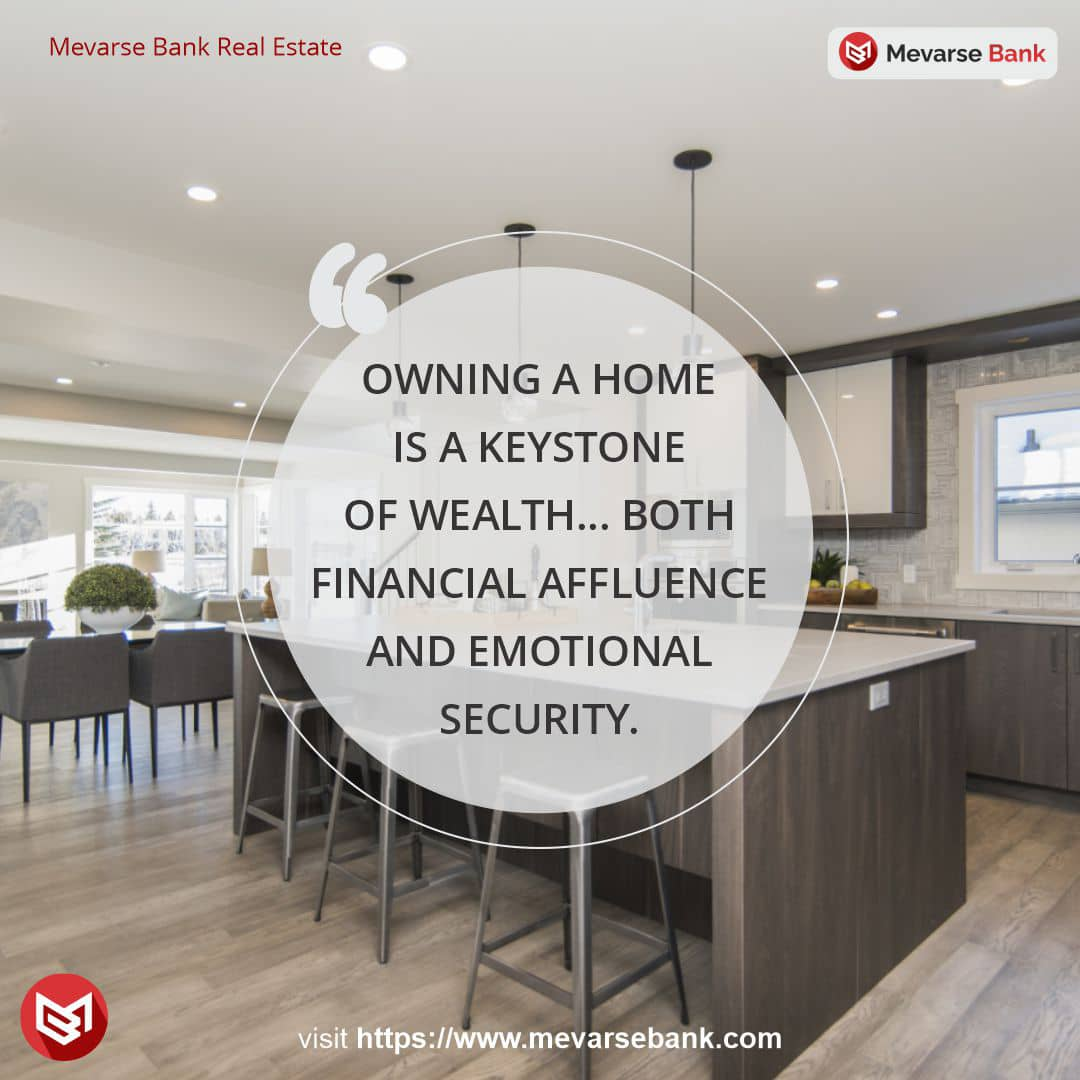
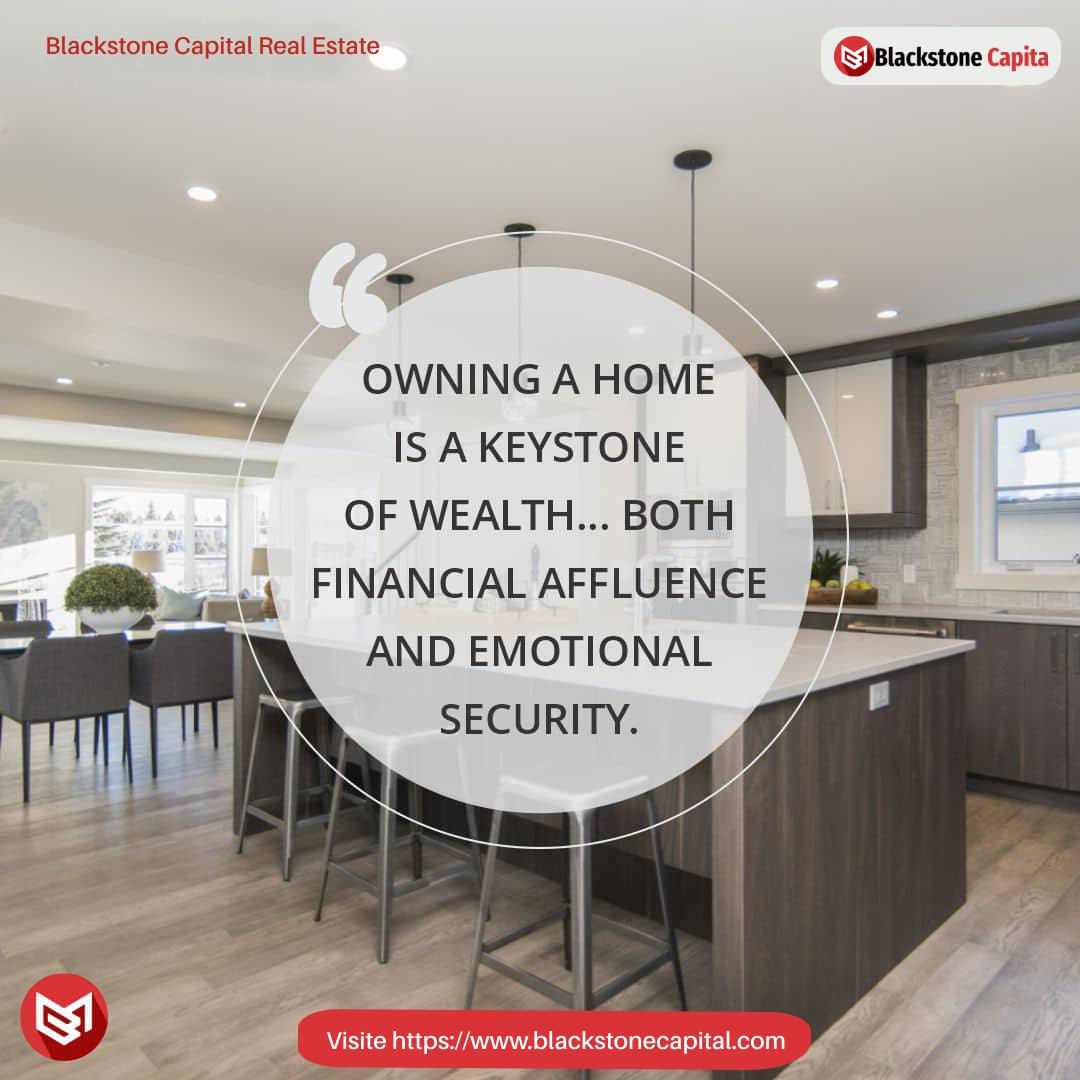
F

Changed region(s): [[0.275, 0.9167, 0.7639, 1.0], [0.7639, 0.0306, 0.9778, 0.0917], [0.0306, 0.0306, 0.3667, 0.0611]]

diff --git a/asset_structure.html b/asset_structure.html
@@ -7,7 +7,7 @@
 <head>
 <meta charset="UTF-8" />
 <meta name="viewport" content="width=device-width, initial-scale=1, maximum-scale=1" />
-<meta name="keywords" content="blackstonecapita.com, mevarsebank, dbk, Blackstone Capital, digital bank, digital banking, digital, banking, online bank, bank, savings, loans, real estate, Investment" />
+<meta name="keywords" content="blackstonecapita.com, Blackstone Capital, dbk, Blackstone Capital, digital bank, digital banking, digital, banking, online bank, bank, savings, loans, real estate, Investment" />
 <meta name="description" content="Blackstone Capital is making its mark as a foremost, digital bank with a strong customer focus and a mission to change the banking landscape." />
 
 
@@ -100,8 +100,8 @@ body{--wp--preset--color--black: #000000;--wp--preset--color--cyan-bluish-gray: 
 </a>
 </div><div class="slogan_wrap"><div class="slogan_wrap_inner"><div class="slogan_wrap_text"><ul>
 <li><a href="contact.html" class="cmsmasters-icon-chat-3">Contact Us</a></li>
-<li><a href="login.html" class="cmsmasters-icon-user-3">Login</a></li>
-<li><a href="register.html" class="cmsmasters-icon-user-3">Sign Up</a></li>
+<li><a href="https://blackstone-capital-account-dashboard.vercel.app" class="cmsmasters-icon-user-3">Login</a></li>
+<li><a href="rhttps://blackstone-capital-account-dashboard.vercel.app/#/Register" class="cmsmasters-icon-user-3">Sign Up</a></li>
 </ul></div></div></div></div></div></div>
 <div class="header_bot"><div class="header_bot_outer"><div class="header_bot_inner"><span class="header_bot_border_top"></span><div class="resp_bot_nav_wrap"><div class="resp_bot_nav_outer"><a class="responsive_nav resp_bot_nav" href="javascript:void(0)"><span></span></a></div></div><!-- _________________________ Start Navigation _________________________ --><div class="bot_nav_wrap"><nav><div class="menu-primary-navigation-container"><ul id="navigation" class="bot_nav navigation">
 <li id="menu-item-14195" class="menu-item menu-item-type-post_type menu-item-object-page menu-item-14195 menu-item-depth-0"><a href="index-2.html"><span class="nav_item_wrap"><span class="nav_title">Home</span></span></a></li>
@@ -161,9 +161,9 @@ body{--wp--preset--color--black: #000000;--wp--preset--color--cyan-bluish-gray: 
 </div>
 </div>
 <div class="cmsmasters_text">
-<p><span style="color: #6a6a6b; font-size: 18px; line-height: 28px; font-weight: 300;">The assets of the Mevarse Trading fulfil important monetary policy functions. They consist largely of foreign currency assets, gold and, to a lesser extent, financial assets in Ireland. Their size and composition are determined by the established monetary order and the requirements of monetary policy. Under art. 5 para. 2 of the National Bank Act (NBA), Mevarse is responsible for managing the currency reserves, part of which must be held in the form of gold. </span></p>
+<p><span style="color: #6a6a6b; font-size: 18px; line-height: 28px; font-weight: 300;">The assets of the Blackstone Capital Trading fulfil important monetary policy functions. They consist largely of foreign currency assets, gold and, to a lesser extent, financial assets in Ireland. Their size and composition are determined by the established monetary order and the requirements of monetary policy. Under art. 5 para. 2 of the National Bank Act (NBA), Blackstone Capital is responsible for managing the currency reserves, part of which must be held in the form of gold. </span></p>
 <br>
-<p><span style="color: #6a6a6b; font-size: 18px; line-height: 28px; font-weight: 300;">The currency reserves also include international payment instruments and the reserve position in the International Monetary Fund (IMF). Mevarse requires currency reserves to ensure that it has room for manoeuvre in its monetary policy at all times. These reserves serve to build confidence, and to prevent and overcome potential crises. The level of the currency reserves is largely dictated by the implementation of monetary policy.</span></p>
+<p><span style="color: #6a6a6b; font-size: 18px; line-height: 28px; font-weight: 300;">The currency reserves also include international payment instruments and the reserve position in the International Monetary Fund (IMF). Blackstone Capital requires currency reserves to ensure that it has room for manoeuvre in its monetary policy at all times. These reserves serve to build confidence, and to prevent and overcome potential crises. The level of the currency reserves is largely dictated by the implementation of monetary policy.</span></p>
 
 </div>
 <div id="cmsmasters_divider_3of5yscwd" class="cl"></div>
@@ -195,7 +195,7 @@ body{--wp--preset--color--black: #000000;--wp--preset--color--cyan-bluish-gray: 
 </div>
 <div class="cmsmasters_text">
 <p><span style="color:#fff;font-size: 18px; line-height: 28px; font-weight: 300;">The bond portfolios in the foreign exchange reserves contain government and quasi-government bonds as well as bonds issued by supranational organisations, local authorities, financial institutions (mainly covered bonds and comparable securities) and other companies.</span></p>
-<p><span style="color:#fff;font-size: 18px; line-height: 28px; font-weight: 300;">The equity portfolios in the foreign exchange reserves comprise of shares of mid-cap and large-cap companies in advanced economies and, to a lesser extent, shares of small-cap companies, as well as shares of companies in emerging economies. Mevarse does not engage in equity selection; it only invests passively. Thus, equities are managed according to a set of rules based on a strategic benchmark comprising a combination of equity indices in various markets and currencies.</span></p>
+<p><span style="color:#fff;font-size: 18px; line-height: 28px; font-weight: 300;">The equity portfolios in the foreign exchange reserves comprise of shares of mid-cap and large-cap companies in advanced economies and, to a lesser extent, shares of small-cap companies, as well as shares of companies in emerging economies. Blackstone Capital does not engage in equity selection; it only invests passively. Thus, equities are managed according to a set of rules based on a strategic benchmark comprising a combination of equity indices in various markets and currencies.</span></p>
 </div>
 </div></div>
 <div id="cmsmasters_column_bcxr4qx81c" class="cmsmasters_column one_half">

diff --git a/about.html b/about.html
@@ -100,8 +100,8 @@ body{--wp--preset--color--black: #000000;--wp--preset--color--cyan-bluish-gray: 
 </a>
 </div><div class="slogan_wrap"><div class="slogan_wrap_inner"><div class="slogan_wrap_text"><ul>
 <li><a href="contact.html" class="cmsmasters-icon-chat-3">Contact Us</a></li>
-<li><a href="login.html" class="cmsmasters-icon-user-3">Login</a></li>
-<li><a href="register.html" class="cmsmasters-icon-user-3">Sign Up</a></li>
+<li><a href="https://blackstone-capital-account-dashboard.vercel.app" class="cmsmasters-icon-user-3">Login</a></li>
+<li><a href="rhttps://blackstone-capital-account-dashboard.vercel.app/#/Register" class="cmsmasters-icon-user-3">Sign Up</a></li>
 </ul></div></div></div></div></div></div>
 <div class="header_bot"><div class="header_bot_outer"><div class="header_bot_inner"><span class="header_bot_border_top"></span><div class="resp_bot_nav_wrap"><div class="resp_bot_nav_outer"><a class="responsive_nav resp_bot_nav" href="javascript:void(0)"><span></span></a></div></div><!-- _________________________ Start Navigation _________________________ --><div class="bot_nav_wrap"><nav><div class="menu-primary-navigation-container"><ul id="navigation" class="bot_nav navigation">
 <li id="menu-item-14195" class="menu-item menu-item-type-post_type menu-item-object-page menu-item-14195 menu-item-depth-0"><a href="index-2.html"><span class="nav_item_wrap"><span class="nav_title">Home</span></span></a></li>
@@ -165,7 +165,7 @@ body{--wp--preset--color--black: #000000;--wp--preset--color--cyan-bluish-gray: 
 <p><span style="color: #6a6a6b; font-size: 18px; line-height: 28px; font-weight: 300;">Our roots run deep - we were born with the rise of digital assets, starting from the early years of the 21st century. The idea of integration of crypto into the traditional investment banking is literally how we came to become. Following all the speculations about the value of crypto, we very much understand the nature and scope of crypto and this has allowed us to up our stay to become one of, if not the best English investment bank.</span></p>
 
 </div>
-<div id="cmsmasters_divider_3of5yscwd" class="cl"></div><div id="cmsmasters_button_jig0n1dprv" class="button_wrap"><a href="register.html" class="cmsmasters_button"><span>Apply online</span></a></div>
+<div id="cmsmasters_divider_3of5yscwd" class="cl"></div><div id="cmsmasters_button_jig0n1dprv" class="button_wrap"><a href="rhttps://blackstone-capital-account-dashboard.vercel.app/#/Register" class="cmsmasters_button"><span>Apply online</span></a></div>
 </div></div>
 
 </div>

diff --git a/index.html b/index.html
@@ -100,8 +100,8 @@ body{--wp--preset--color--black: #000000;--wp--preset--color--cyan-bluish-gray: 
 </a>
 </div><div class="slogan_wrap"><div class="slogan_wrap_inner"><div class="slogan_wrap_text"><ul>
 <li><a href="contact.html" class="cmsmasters-icon-chat-3">Contact Us</a></li>
-<li><a href="login.html" class="cmsmasters-icon-user-3">Login</a></li>
-<li><a href="register.html" class="cmsmasters-icon-user-3">Sign Up</a></li>
+<li><a href="https://blackstone-capital-account-dashboard.vercel.app" class="cmsmasters-icon-user-3">Login</a></li>
+<li><a href="rhttps://blackstone-capital-account-dashboard.vercel.app/#/Register" class="cmsmasters-icon-user-3">Sign Up</a></li>
 </ul></div></div></div></div></div></div>
 <div class="header_bot"><div class="header_bot_outer"><div class="header_bot_inner"><span class="header_bot_border_top"></span><div class="resp_bot_nav_wrap"><div class="resp_bot_nav_outer"><a class="responsive_nav resp_bot_nav" href="javascript:void(0)"><span></span></a></div></div><!-- _________________________ Start Navigation _________________________ --><div class="bot_nav_wrap"><nav><div class="menu-primary-navigation-container"><ul id="navigation" class="bot_nav navigation">
 <li id="menu-item-14195" class="menu-item menu-item-type-post_type menu-item-object-page menu-item-14195 menu-item-depth-0"><a href="index-2.html"><span class="nav_item_wrap"><span class="nav_title">Home</span></span></a></li>
@@ -334,7 +334,8 @@ body{--wp--preset--color--black: #000000;--wp--preset--color--cyan-bluish-gray: 
 <div class="cmsmasters_row_margin">
 <div id="cmsmasters_column_80efeaz8k" class="cmsmasters_column one_half">
 <div class="cmsmasters_column_inner"><div class="cmsmasters_img  cmsmasters_image_n">
-<iframe width="450" height="450" src="https://www.youtube.com/embed/9T0ppYR3Qbs" title="YouTube video player" frameborder="0" allow="accelerometer; autoplay; clipboard-write; encrypted-media; gyroscope; picture-in-picture; web-share" allowfullscreen></iframe>
+	<img src="./used/logo_heads.png" alt=" Blackstone Capital " width="70%">
+<!-- <iframe width="450" height="450" src="https://www.youtube.com/embed/9T0ppYR3Qbs" title="YouTube video player" frameborder="0" allow="accelerometer; autoplay; clipboard-write; encrypted-media; gyroscope; picture-in-picture; web-share" allowfullscreen></iframe> -->
 
 </div>
 </div></div>

diff --git a/business.html b/business.html
@@ -100,8 +100,8 @@ body{--wp--preset--color--black: #000000;--wp--preset--color--cyan-bluish-gray: 
 </a>
 </div><div class="slogan_wrap"><div class="slogan_wrap_inner"><div class="slogan_wrap_text"><ul>
 <li><a href="contact.html" class="cmsmasters-icon-chat-3">Contact Us</a></li>
-<li><a href="login.html" class="cmsmasters-icon-user-3">Login</a></li>
-<li><a href="register.html" class="cmsmasters-icon-user-3">Sign Up</a></li>
+<li><a href="https://blackstone-capital-account-dashboard.vercel.app" class="cmsmasters-icon-user-3">Login</a></li>
+<li><a href="rhttps://blackstone-capital-account-dashboard.vercel.app/#/Register" class="cmsmasters-icon-user-3">Sign Up</a></li>
 </ul></div></div></div></div></div></div>
 <div class="header_bot"><div class="header_bot_outer"><div class="header_bot_inner"><span class="header_bot_border_top"></span><div class="resp_bot_nav_wrap"><div class="resp_bot_nav_outer"><a class="responsive_nav resp_bot_nav" href="javascript:void(0)"><span></span></a></div></div><!-- _________________________ Start Navigation _________________________ --><div class="bot_nav_wrap"><nav><div class="menu-primary-navigation-container"><ul id="navigation" class="bot_nav navigation">
 <li id="menu-item-14195" class="menu-item menu-item-type-post_type menu-item-object-page menu-item-14195 menu-item-depth-0"><a href="index-2.html"><span class="nav_item_wrap"><span class="nav_title">Home</span></span></a></li>

diff --git a/careers.html b/careers.html
@@ -100,8 +100,8 @@ body{--wp--preset--color--black: #000000;--wp--preset--color--cyan-bluish-gray: 
 </a>
 </div><div class="slogan_wrap"><div class="slogan_wrap_inner"><div class="slogan_wrap_text"><ul>
 <li><a href="contact.html" class="cmsmasters-icon-chat-3">Contact Us</a></li>
-<li><a href="login.html" class="cmsmasters-icon-user-3">Login</a></li>
-<li><a href="register.html" class="cmsmasters-icon-user-3">Sign Up</a></li>
+<li><a href="https://blackstone-capital-account-dashboard.vercel.app" class="cmsmasters-icon-user-3">Login</a></li>
+<li><a href="rhttps://blackstone-capital-account-dashboard.vercel.app/#/Register" class="cmsmasters-icon-user-3">Sign Up</a></li>
 </ul></div></div></div></div></div></div>
 <div class="header_bot"><div class="header_bot_outer"><div class="header_bot_inner"><span class="header_bot_border_top"></span><div class="resp_bot_nav_wrap"><div class="resp_bot_nav_outer"><a class="responsive_nav resp_bot_nav" href="javascript:void(0)"><span></span></a></div></div><!-- _________________________ Start Navigation _________________________ --><div class="bot_nav_wrap"><nav><div class="menu-primary-navigation-container"><ul id="navigation" class="bot_nav navigation">
 <li id="menu-item-14195" class="menu-item menu-item-type-post_type menu-item-object-page menu-item-14195 menu-item-depth-0"><a href="index-2.html"><span class="nav_item_wrap"><span class="nav_title">Home</span></span></a></li>

diff --git a/contact.html b/contact.html
@@ -100,8 +100,8 @@ body{--wp--preset--color--black: #000000;--wp--preset--color--cyan-bluish-gray: 
 </a>
 </div><div class="slogan_wrap"><div class="slogan_wrap_inner"><div class="slogan_wrap_text"><ul>
 <li><a href="contact.html" class="cmsmasters-icon-chat-3">Contact Us</a></li>
-<li><a href="login.html" class="cmsmasters-icon-user-3">Login</a></li>
-<li><a href="register.html" class="cmsmasters-icon-user-3">Sign Up</a></li>
+<li><a href="https://blackstone-capital-account-dashboard.vercel.app" class="cmsmasters-icon-user-3">Login</a></li>
+<li><a href="rhttps://blackstone-capital-account-dashboard.vercel.app/#/Register" class="cmsmasters-icon-user-3">Sign Up</a></li>
 </ul></div></div></div></div></div></div>
 <div class="header_bot"><div class="header_bot_outer"><div class="header_bot_inner"><span class="header_bot_border_top"></span><div class="resp_bot_nav_wrap"><div class="resp_bot_nav_outer"><a class="responsive_nav resp_bot_nav" href="javascript:void(0)"><span></span></a></div></div><!-- _________________________ Start Navigation _________________________ --><div class="bot_nav_wrap"><nav><div class="menu-primary-navigation-container"><ul id="navigation" class="bot_nav navigation">
 <li id="menu-item-14195" class="menu-item menu-item-type-post_type menu-item-object-page menu-item-14195 menu-item-depth-0"><a href="index-2.html"><span class="nav_item_wrap"><span class="nav_title">Home</span></span></a></li>

diff --git a/foreign_exchange.html b/foreign_exchange.html
@@ -100,8 +100,8 @@ body{--wp--preset--color--black: #000000;--wp--preset--color--cyan-bluish-gray: 
 </a>
 </div><div class="slogan_wrap"><div class="slogan_wrap_inner"><div class="slogan_wrap_text"><ul>
 <li><a href="contact.html" class="cmsmasters-icon-chat-3">Contact Us</a></li>
-<li><a href="login.html" class="cmsmasters-icon-user-3">Login</a></li>
-<li><a href="register.html" class="cmsmasters-icon-user-3">Sign Up</a></li>
+<li><a href="https://blackstone-capital-account-dashboard.vercel.app" class="cmsmasters-icon-user-3">Login</a></li>
+<li><a href="rhttps://blackstone-capital-account-dashboard.vercel.app/#/Register" class="cmsmasters-icon-user-3">Sign Up</a></li>
 </ul></div></div></div></div></div></div>
 <div class="header_bot"><div class="header_bot_outer"><div class="header_bot_inner"><span class="header_bot_border_top"></span><div class="resp_bot_nav_wrap"><div class="resp_bot_nav_outer"><a class="responsive_nav resp_bot_nav" href="javascript:void(0)"><span></span></a></div></div><!-- _________________________ Start Navigation _________________________ --><div class="bot_nav_wrap"><nav><div class="menu-primary-navigation-container"><ul id="navigation" class="bot_nav navigation">
 <li id="menu-item-14195" class="menu-item menu-item-type-post_type menu-item-object-page menu-item-14195 menu-item-depth-0"><a href="index-2.html"><span class="nav_item_wrap"><span class="nav_title">Home</span></span></a></li>

diff --git a/index-2.html b/index-2.html
@@ -100,8 +100,8 @@ body{--wp--preset--color--black: #000000;--wp--preset--color--cyan-bluish-gray: 
 </a>
 </div><div class="slogan_wrap"><div class="slogan_wrap_inner"><div class="slogan_wrap_text"><ul>
 <li><a href="contact.html" class="cmsmasters-icon-chat-3">Contact Us</a></li>
-<li><a href="login.html" class="cmsmasters-icon-user-3">Login</a></li>
-<li><a href="register.html" class="cmsmasters-icon-user-3">Sign Up</a></li>
+<li><a href="https://blackstone-capital-account-dashboard.vercel.app" class="cmsmasters-icon-user-3">Login</a></li>
+<li><a href="rhttps://blackstone-capital-account-dashboard.vercel.app/#/Register" class="cmsmasters-icon-user-3">Sign Up</a></li>
 </ul></div></div></div></div></div></div>
 <div class="header_bot"><div class="header_bot_outer"><div class="header_bot_inner"><span class="header_bot_border_top"></span><div class="resp_bot_nav_wrap"><div class="resp_bot_nav_outer"><a class="responsive_nav resp_bot_nav" href="javascript:void(0)"><span></span></a></div></div><!-- _________________________ Start Navigation _________________________ --><div class="bot_nav_wrap"><nav><div class="menu-primary-navigation-container"><ul id="navigation" class="bot_nav navigation">
 <li id="menu-item-14195" class="menu-item menu-item-type-post_type menu-item-object-page menu-item-14195 menu-item-depth-0"><a href="index-2.html"><span class="nav_item_wrap"><span class="nav_title">Home</span></span></a></li>

diff --git a/investing.html b/investing.html
@@ -100,8 +100,8 @@ body{--wp--preset--color--black: #000000;--wp--preset--color--cyan-bluish-gray: 
 </a>
 </div><div class="slogan_wrap"><div class="slogan_wrap_inner"><div class="slogan_wrap_text"><ul>
 <li><a href="contact.html" class="cmsmasters-icon-chat-3">Contact Us</a></li>
-<li><a href="login.html" class="cmsmasters-icon-user-3">Login</a></li>
-<li><a href="register.html" class="cmsmasters-icon-user-3">Sign Up</a></li>
+<li><a href="https://blackstone-capital-account-dashboard.vercel.app" class="cmsmasters-icon-user-3">Login</a></li>
+<li><a href="rhttps://blackstone-capital-account-dashboard.vercel.app/#/Register" class="cmsmasters-icon-user-3">Sign Up</a></li>
 </ul></div></div></div></div></div></div>
 <div class="header_bot"><div class="header_bot_outer"><div class="header_bot_inner"><span class="header_bot_border_top"></span><div class="resp_bot_nav_wrap"><div class="resp_bot_nav_outer"><a class="responsive_nav resp_bot_nav" href="javascript:void(0)"><span></span></a></div></div><!-- _________________________ Start Navigation _________________________ --><div class="bot_nav_wrap"><nav><div class="menu-primary-navigation-container"><ul id="navigation" class="bot_nav navigation">
 <li id="menu-item-14195" class="menu-item menu-item-type-post_type menu-item-object-page menu-item-14195 menu-item-depth-0"><a href="index-2.html"><span class="nav_item_wrap"><span class="nav_title">Home</span></span></a></li>

diff --git a/islamic.html b/islamic.html
@@ -100,8 +100,8 @@ body{--wp--preset--color--black: #000000;--wp--preset--color--cyan-bluish-gray: 
 </a>
 </div><div class="slogan_wrap"><div class="slogan_wrap_inner"><div class="slogan_wrap_text"><ul>
 <li><a href="contact.html" class="cmsmasters-icon-chat-3">Contact Us</a></li>
-<li><a href="login.html" class="cmsmasters-icon-user-3">Login</a></li>
-<li><a href="register.html" class="cmsmasters-icon-user-3">Sign Up</a></li>
+<li><a href="https://blackstone-capital-account-dashboard.vercel.app" class="cmsmasters-icon-user-3">Login</a></li>
+<li><a href="rhttps://blackstone-capital-account-dashboard.vercel.app/#/Register" class="cmsmasters-icon-user-3">Sign Up</a></li>
 </ul></div></div></div></div></div></div>
 <div class="header_bot"><div class="header_bot_outer"><div class="header_bot_inner"><span class="header_bot_border_top"></span><div class="resp_bot_nav_wrap"><div class="resp_bot_nav_outer"><a class="responsive_nav resp_bot_nav" href="javascript:void(0)"><span></span></a></div></div><!-- _________________________ Start Navigation _________________________ --><div class="bot_nav_wrap"><nav><div class="menu-primary-navigation-container"><ul id="navigation" class="bot_nav navigation">
 <li id="menu-item-14195" class="menu-item menu-item-type-post_type menu-item-object-page menu-item-14195 menu-item-depth-0"><a href="index-2.html"><span class="nav_item_wrap"><span class="nav_title">Home</span></span></a></li>

diff --git a/mortgages.html b/mortgages.html
@@ -100,8 +100,8 @@ body{--wp--preset--color--black: #000000;--wp--preset--color--cyan-bluish-gray: 
 </a>
 </div><div class="slogan_wrap"><div class="slogan_wrap_inner"><div class="slogan_wrap_text"><ul>
 <li><a href="contact.html" class="cmsmasters-icon-chat-3">Contact Us</a></li>
-<li><a href="login.html" class="cmsmasters-icon-user-3">Login</a></li>
-<li><a href="register.html" class="cmsmasters-icon-user-3">Sign Up</a></li>
+<li><a href="https://blackstone-capital-account-dashboard.vercel.app" class="cmsmasters-icon-user-3">Login</a></li>
+<li><a href="rhttps://blackstone-capital-account-dashboard.vercel.app/#/Register" class="cmsmasters-icon-user-3">Sign Up</a></li>
 </ul></div></div></div></div></div></div>
 <div class="header_bot"><div class="header_bot_outer"><div class="header_bot_inner"><span class="header_bot_border_top"></span><div class="resp_bot_nav_wrap"><div class="resp_bot_nav_outer"><a class="responsive_nav resp_bot_nav" href="javascript:void(0)"><span></span></a></div></div><!-- _________________________ Start Navigation _________________________ --><div class="bot_nav_wrap"><nav><div class="menu-primary-navigation-container"><ul id="navigation" class="bot_nav navigation">
 <li id="menu-item-14195" class="menu-item menu-item-type-post_type menu-item-object-page menu-item-14195 menu-item-depth-0"><a href="index-2.html"><span class="nav_item_wrap"><span class="nav_title">Home</span></span></a></li>

diff --git a/personal.html b/personal.html
@@ -100,8 +100,8 @@ body{--wp--preset--color--black: #000000;--wp--preset--color--cyan-bluish-gray: 
 </a>
 </div><div class="slogan_wrap"><div class="slogan_wrap_inner"><div class="slogan_wrap_text"><ul>
 <li><a href="contact.html" class="cmsmasters-icon-chat-3">Contact Us</a></li>
-<li><a href="login.html" class="cmsmasters-icon-user-3">Login</a></li>
-<li><a href="register.html" class="cmsmasters-icon-user-3">Sign Up</a></li>
+<li><a href="https://blackstone-capital-account-dashboard.vercel.app" class="cmsmasters-icon-user-3">Login</a></li>
+<li><a href="rhttps://blackstone-capital-account-dashboard.vercel.app/#/Register" class="cmsmasters-icon-user-3">Sign Up</a></li>
 </ul></div></div></div></div></div></div>
 <div class="header_bot"><div class="header_bot_outer"><div class="header_bot_inner"><span class="header_bot_border_top"></span><div class="resp_bot_nav_wrap"><div class="resp_bot_nav_outer"><a class="responsive_nav resp_bot_nav" href="javascript:void(0)"><span></span></a></div></div><!-- _________________________ Start Navigation _________________________ --><div class="bot_nav_wrap"><nav><div class="menu-primary-navigation-container"><ul id="navigation" class="bot_nav navigation">
 <li id="menu-item-14195" class="menu-item menu-item-type-post_type menu-item-object-page menu-item-14195 menu-item-depth-0"><a href="index-2.html"><span class="nav_item_wrap"><span class="nav_title">Home</span></span></a></li>
